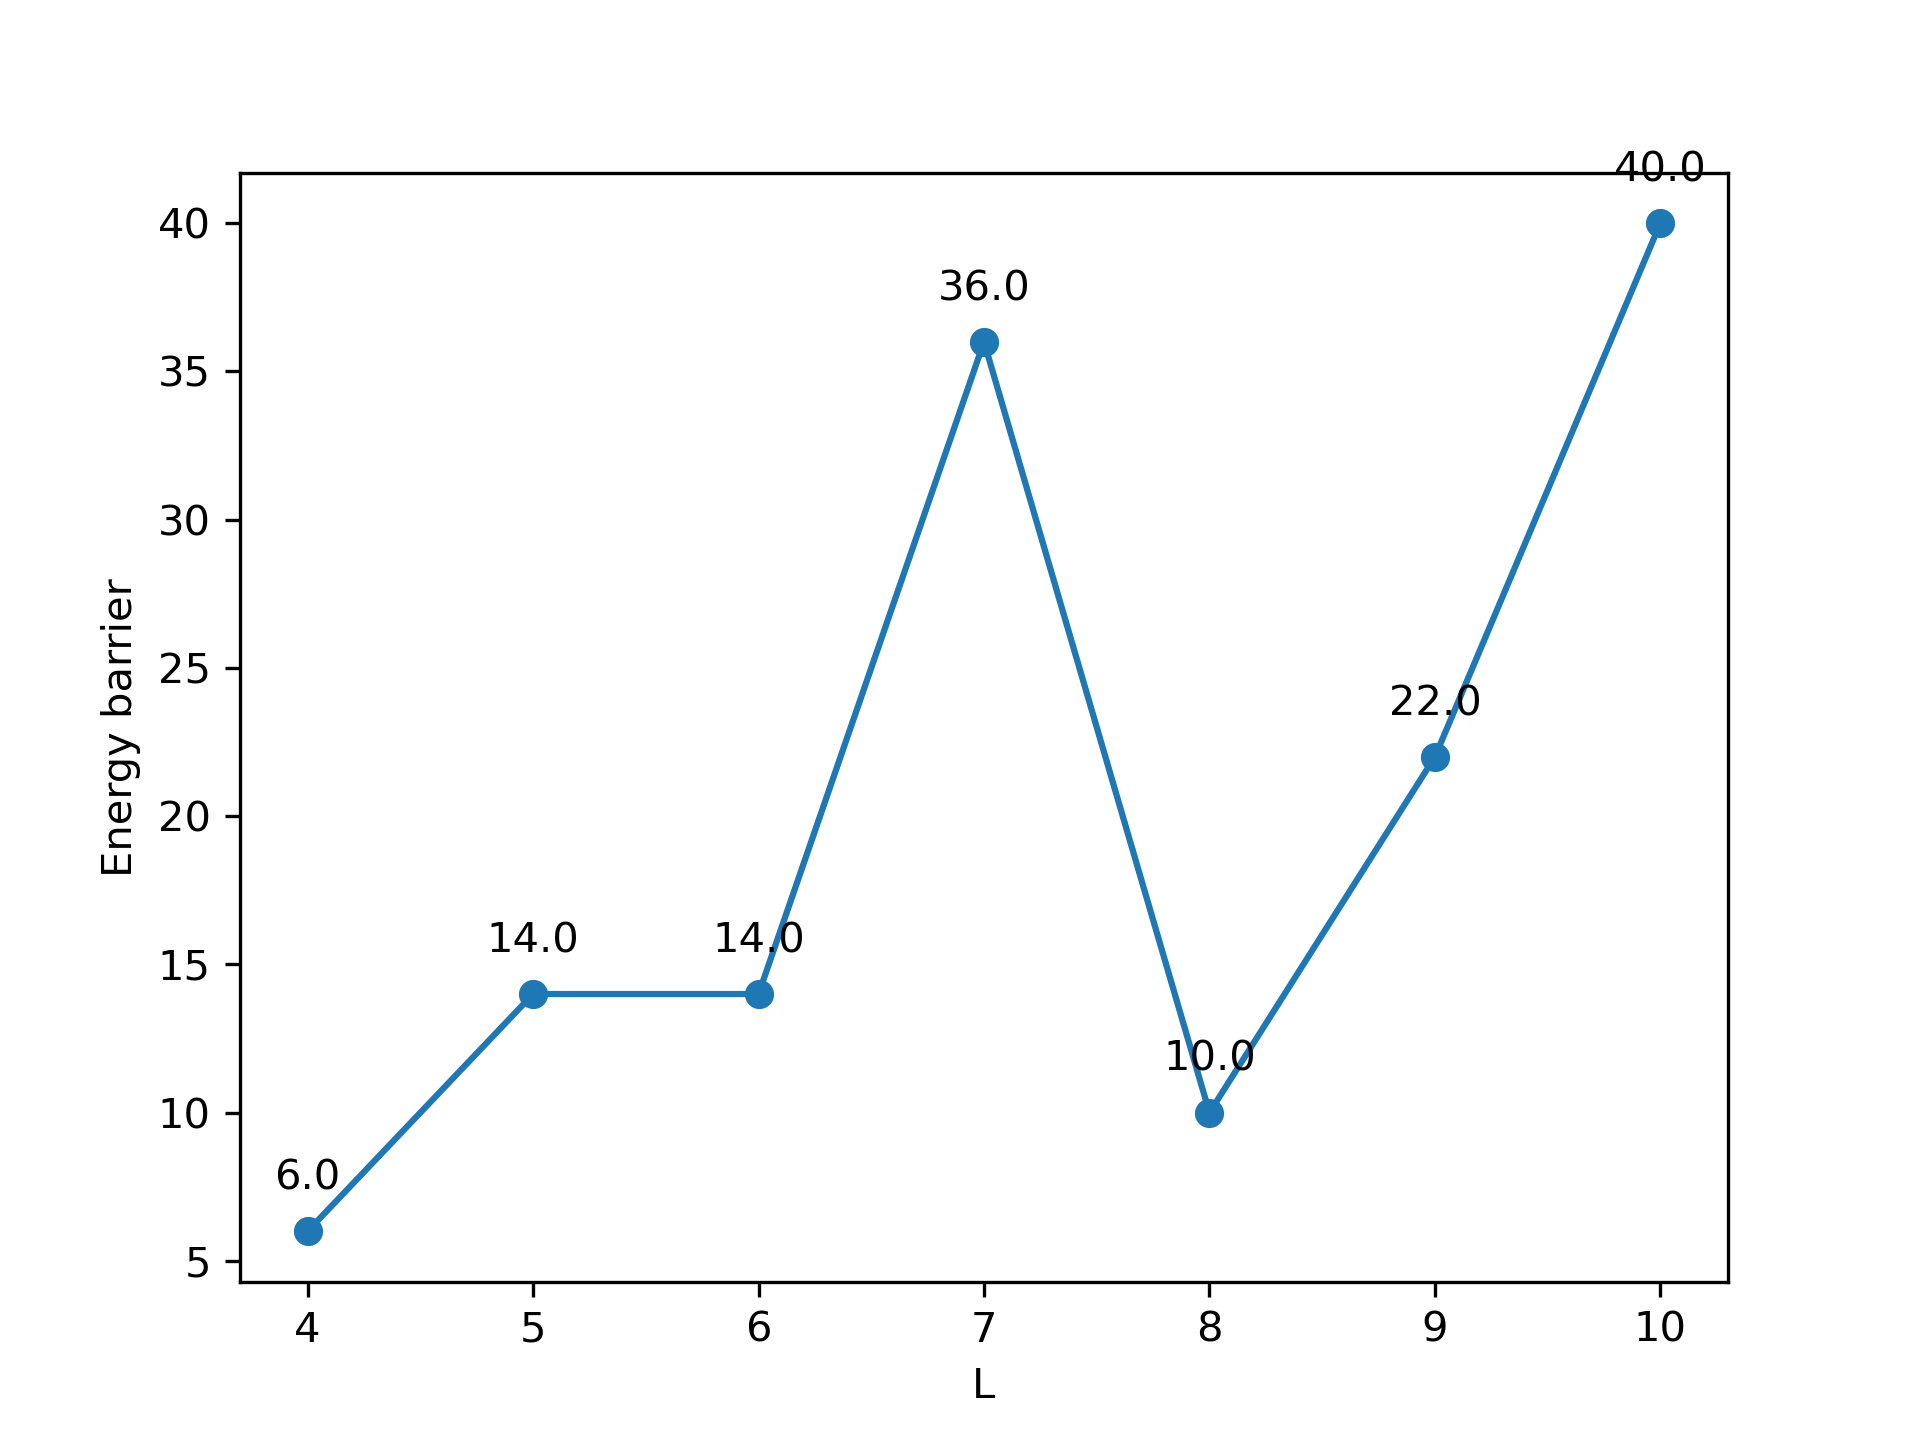
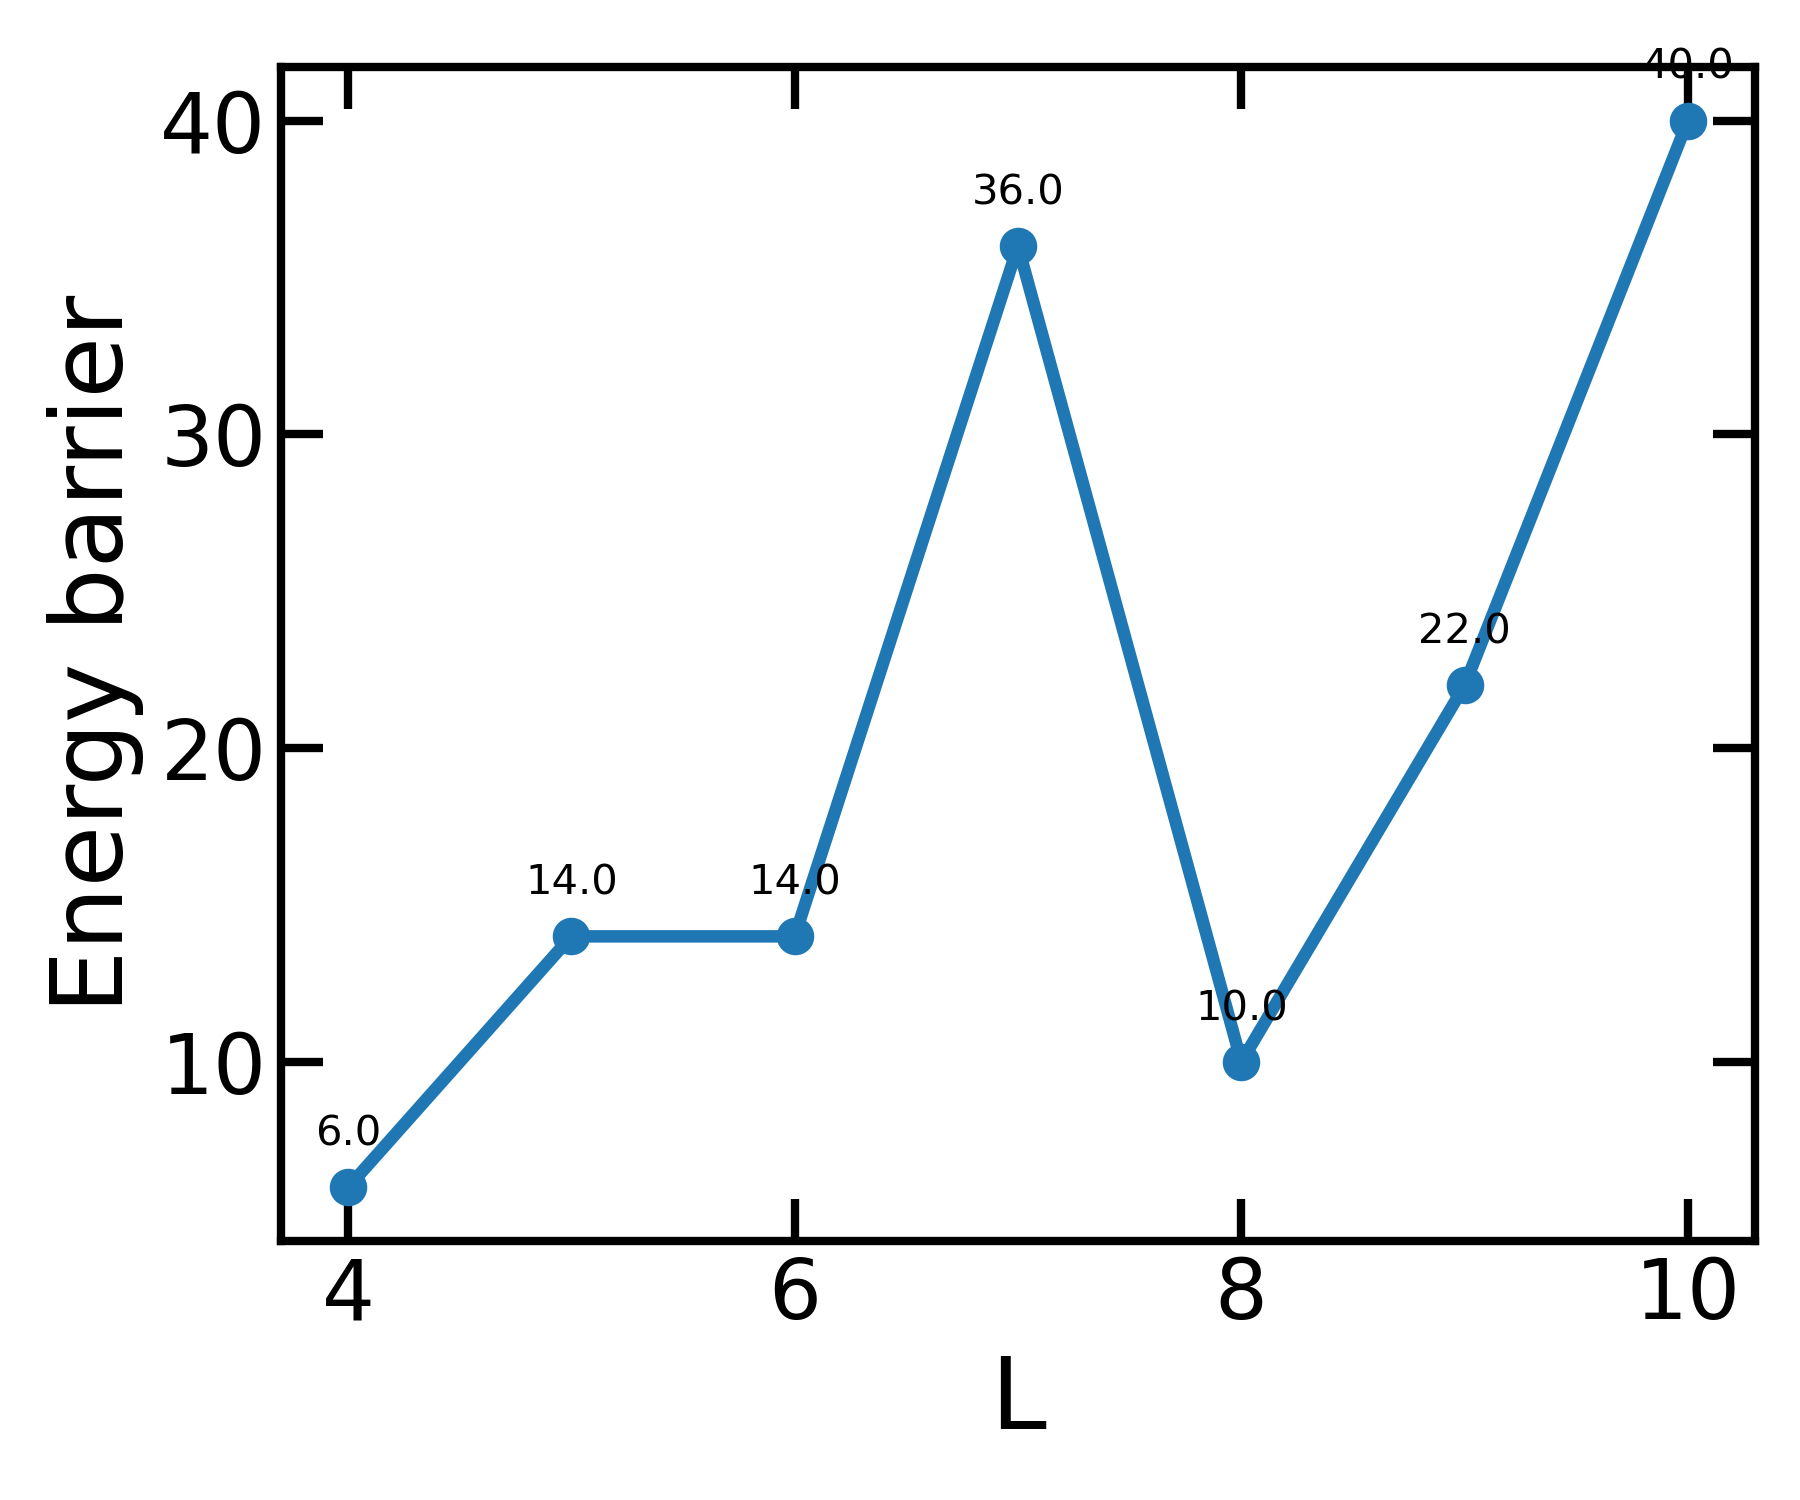
slightly modify

diff --git a/src/energy_barrier_scaling_toric_code.py b/src/energy_barrier_scaling_toric_code.py
@@ -1,5 +1,6 @@
 import numpy as np
 import matplotlib.pyplot as plt
+plt.style.use('../figures/norm2.mplstyle')
 from scipy.optimize import curve_fit
 from scipy.signal import find_peaks
 from sys import argv
@@ -15,8 +16,12 @@ for d in ds:
     readpath = \
         f'/n/home01/ytan/scratch/qmemory_simulation/data/toric_code/energy_barrier_list_d{d}_nsamples{nsamples:.2e}.txt'
     data = np.loadtxt(readpath)
-    peaks, _ = find_peaks(data)
-    energy_barrier_opts.append(data[peaks[0]])
+    try:
+        peaks, _ = find_peaks(data, height=0)
+        energy_barrier_opts.append(data[peaks[0]])
+    except IndexError:
+        assert np.all(data == data[0])
+        energy_barrier_opts.append(data[0])
 
 fig, ax = plt.subplots()
 ax.plot(ds, energy_barrier_opts, 'o-')
@@ -24,5 +29,6 @@ for i, txt in enumerate(energy_barrier_opts):
     ax.annotate(f'{txt}', (ds[i], energy_barrier_opts[i]), textcoords="offset points", xytext=(0,10), ha='center')
 ax.set_xlabel('d')
 ax.set_ylabel('Energy barrier')
+fig.tight_layout()
 fig.savefig(f'/n/home01/ytan/qmemory_simulation/figures/toric_code/energy_barrier_scaling.png', dpi=300)
 plt.show()

diff --git a/src/energy_barrier_scaling_haah_code.py b/src/energy_barrier_scaling_haah_code.py
@@ -1,5 +1,6 @@
 import numpy as np
 import matplotlib.pyplot as plt
+plt.style.use('../figures/norm2.mplstyle')
 from scipy.optimize import curve_fit
 from scipy.signal import find_peaks
 from sys import argv
@@ -24,5 +25,6 @@ for i, txt in enumerate(energy_barrier_opts):
     ax.annotate(f'{txt}', (Ls[i], energy_barrier_opts[i]), textcoords="offset points", xytext=(0,10), ha='center')
 ax.set_xlabel('L')
 ax.set_ylabel('Energy barrier')
+fig.tight_layout()
 fig.savefig(f'/n/home01/ytan/qmemory_simulation/figures/haah_code/energy_barrier_scaling.png', dpi=300)
 plt.show()

diff --git a/src/code_distance.py b/src/code_distance.py
@@ -1,0 +1,1 @@
+import numpy as np
